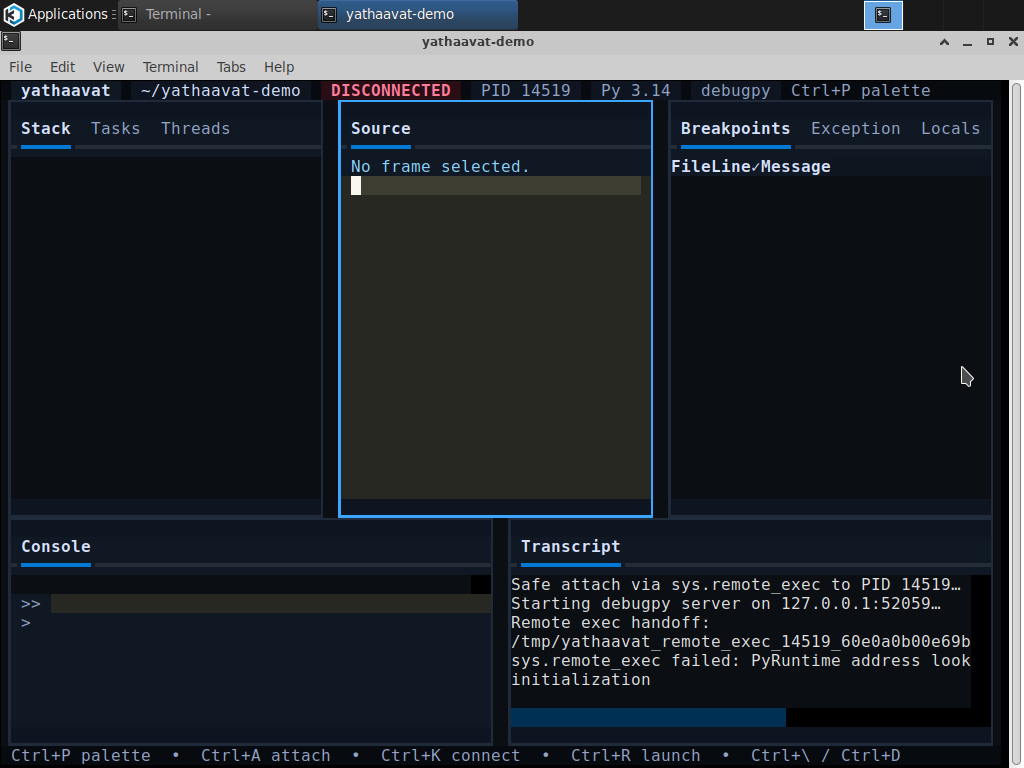
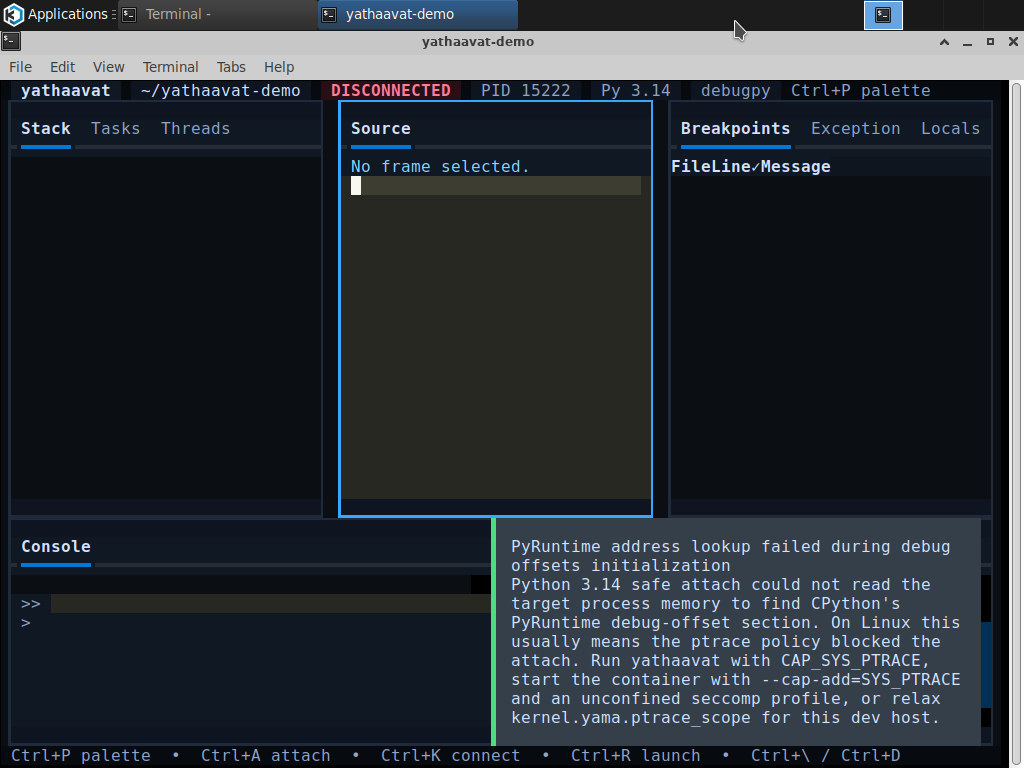
docs: refresh Kasm safe attach screenshots

diff --git a/docs/research/evidence/2026-05-01/README.md b/docs/research/evidence/2026-05-01/README.md
@@ -3,4 +3,4 @@
 Screenshots captured from the configured Linux KasmVNC desktop.
 
 - `attach-picker-safe-probe.png`: the attach picker filtered to two generic `python` CPython 3.14 targets. The normal target is shown as `py3.14 safe`; the target launched with `PYTHON_DISABLE_REMOTE_DEBUG=1` is shown as `py3.14 safe off`.
-- `safe-attach-route-attempt.png`: pressing Enter on a `py3.14 safe` target routes to the existing `sys.remote_exec` safe attach flow. The Kasm/uv CPython runtime then reports `PyRuntime address lookup failed during debug offsets initialization`, which is an environment/runtime remote-exec failure after yathaavat selected the safe path.
+- `safe-attach-route-attempt.png`: pressing Enter on a `py3.14 safe` target routes to the existing `sys.remote_exec` safe attach flow. The Kasm/uv CPython runtime then reports `PyRuntime address lookup failed during debug offsets initialization`; yathaavat now explains this as a likely Linux ptrace/container capability failure and shows `CAP_SYS_PTRACE`, unconfined seccomp, and `kernel.yama.ptrace_scope` remediation guidance.
